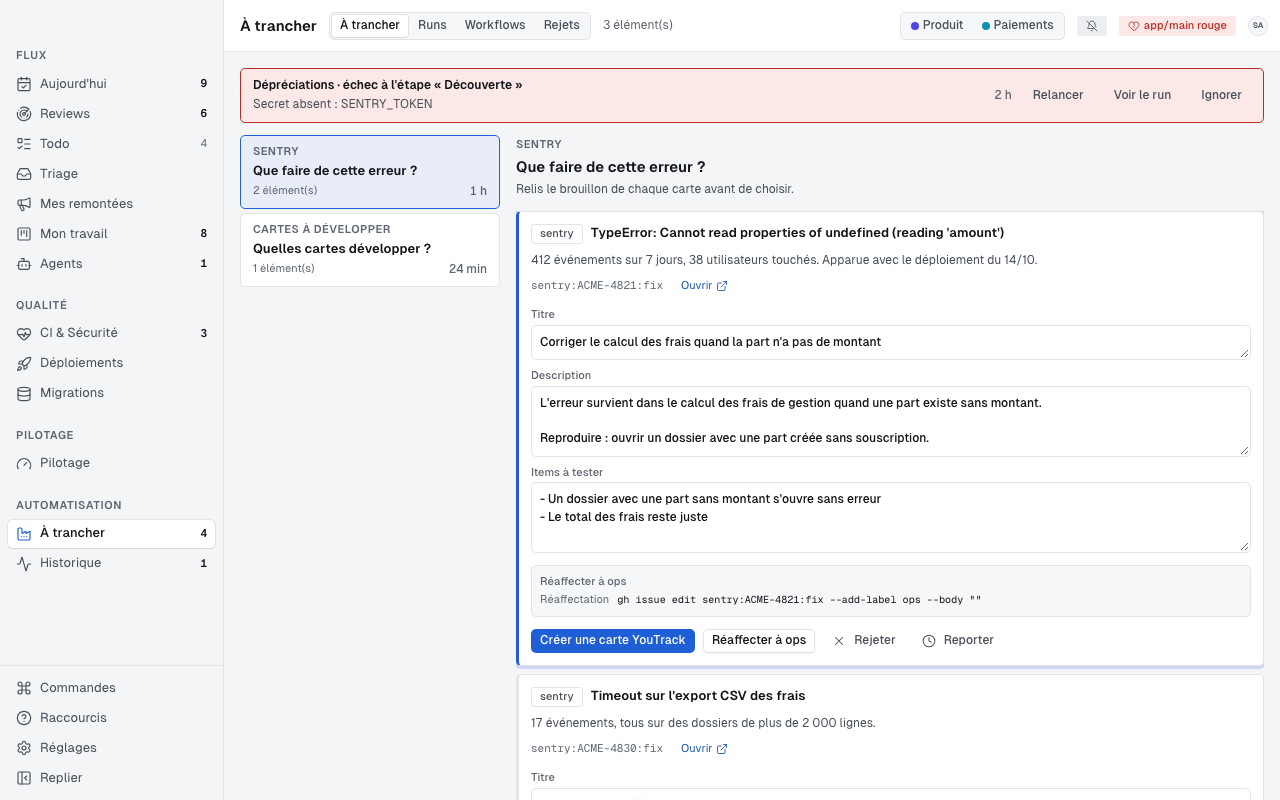
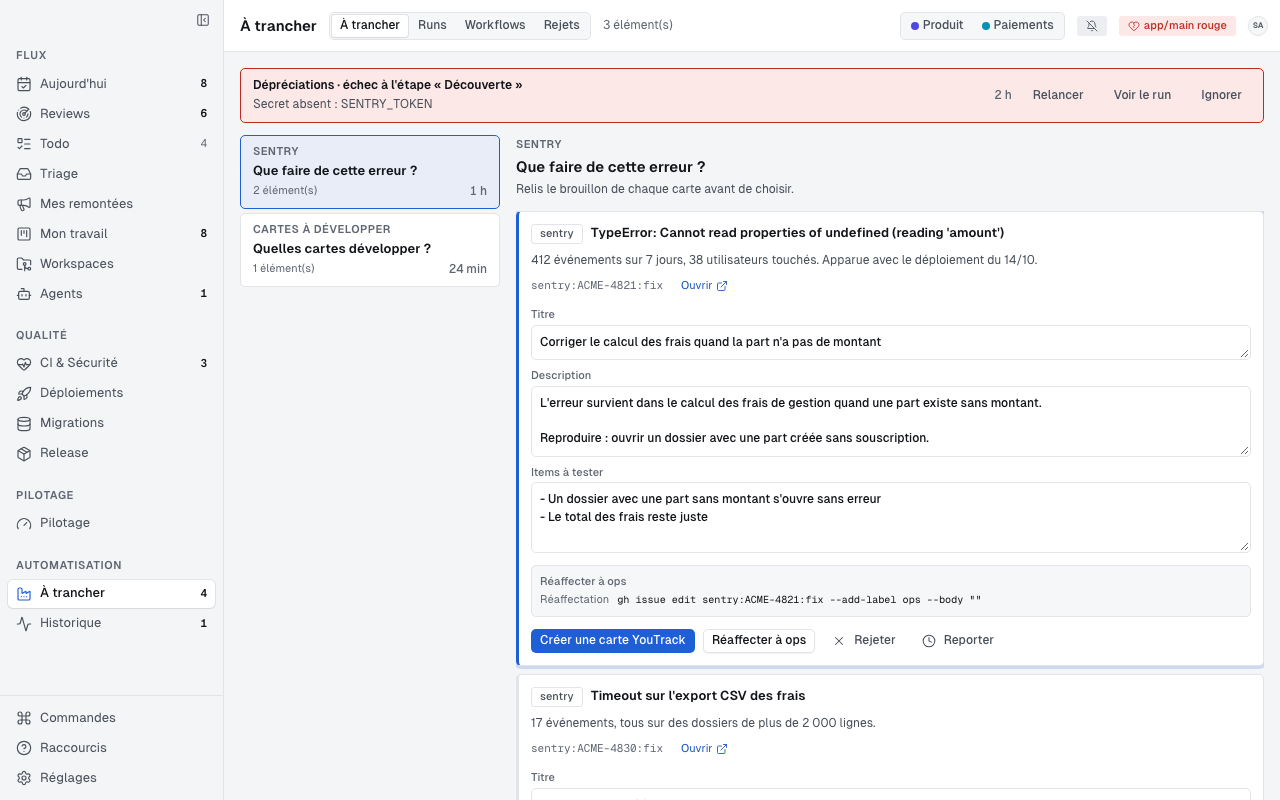
Show the whole cockpit, hidden views and sources included
The README stopped at the views of the sidebar as they stood a fortnight
ago. Workspaces and Release had arrived since and were missing, Ménage,
Notes and Absence had never been shown at all, and nothing said what
feeds the app.

Four sections join the four groups: the three views the palette opens,
then the accounts and the notification windows. Every shot is retaken
from the demo fixtures by a spec that lives with the code, so the next
drift is one command away.

The install line named the repository by its former owner. It works by
redirect, but the source README has said parallel-services for a while.

Changed region(s): [[0.0, 0.3125, 0.0938, 0.7812], [0.0, 0.8438, 0.0938, 0.9062], [0.0312, 0.9688, 0.0625, 1.0]]

diff --git a/README.md b/README.md
@@ -11,32 +11,37 @@ au dépôt de code.
 
 Chacun s'allume ou s'éteint dans **Réglages › Modules** : ce qui est éteint quitte la barre, les
 raccourcis et les notifications. La barre de gauche les range en quatre groupes — Flux, Qualité,
-Pilotage, Automatisation. Les captures viennent du jeu de démonstration, pas d'un vrai compte.
+Pilotage, Automatisation — et trois vues vivent hors de la barre, ouvertes par la palette. Les
+captures viennent du jeu de démonstration, pas d'un vrai compte.
 
 ## Flux
 
 ### Aujourd'hui
-Ce qui t'attend dans les autres vues actives, en un coup d'œil.
+Ce qui t'attend dans les autres vues actives, en un coup d'œil : agents, sorties à trancher,
+ménage, mentions, reviews, PR et cartes en cours. Chaque bloc se masque ou se déplace, et un bloc
+masqué ne compte nulle part.
 
 ![Aujourd'hui](docs/screenshots/aujourdhui.png)
 
 ### Reviews
 Tout ce qui attend ta review, avec le compteur de la barre de menus. j et k circulent, Entrée ouvre.
+Ce qui bouge sans qu'on te l'ait demandé devient un signal, rangé derrière son bouton.
 
 ![Reviews](docs/screenshots/reviews.png)
 
 ### Todo
-Les cartes à prendre dans le sprint courant de tes boards.
+Les cartes à prendre dans le sprint courant de tes boards, avec les workflows qui démarrent le
+travail : Conductor, terminal, ou un départ en hotfix depuis une version de prod.
 
 ![Todo](docs/screenshots/todo.png)
 
 ### Triage
-Les bugs remontés dans Notion, triés et transformés en cartes YouTrack.
+Les bugs remontés dans Notion et les erreurs Sentry, triés et transformés en cartes YouTrack.
 
 ![Triage](docs/screenshots/triage.png)
 
 ### Mes remontées
-Les bugs que tu as remontés dans Notion, et ce qu'ils deviennent.
+Les bugs que tu as remontés dans Notion, et ce qu'ils deviennent : ce qui attend ta réponse d'abord.
 
 ![Mes remontées](docs/screenshots/mes-remontees.png)
 
@@ -44,6 +49,12 @@ Les bugs que tu as remontés dans Notion, et ce qu'ils deviennent.
 Tes cartes en cours avec leur parcours, puis tes PR sans carte : branche, CI, reviews et conflits.
 
 ![Mon travail](docs/screenshots/mon-travail.png)
+
+### Workspaces
+Un worktree git par sujet, où Claude Code travaille : créer, suivre, relire le diff, commiter et
+pousser. ⇧Entrée ouvre une session, ⌘⇧N crée un workspace.
+
+![Workspaces](docs/screenshots/workspaces.png)
 
 ### Agents
 Tes sessions Claude Code ; celles qui attendent une réponse passent devant.
@@ -69,6 +80,12 @@ Les PR ouvertes qui touchent une migration : qui doit la relire, depuis combien 
 et le SQL qu'elle joue.
 
 ![Migrations](docs/screenshots/migrations.png)
+
+### Release
+Préparer une version : le tag suivant, le commit cible, les traductions en attente, les migrations
+à relire et le changelog que les cartes ont écrit. Rien n'est publié depuis ici sans confirmation.
+
+![Release](docs/screenshots/release.png)
 
 ## Pilotage
 
@@ -103,6 +120,44 @@ Les enchaînements, actions, runs Factory et appels MCP passés, étape par éta
 
 ![Historique](docs/screenshots/historique.png)
 
+## Hors de la barre
+
+Trois vues que la palette (⌘K) ouvre, et qui se signalent d'elles-mêmes quand elles ont quelque
+chose à dire.
+
+### Ménage
+Les branches fusionnées, worktrees, images et volumes à ranger, avec la place qu'ils reprennent.
+Rien n'est supprimé sans aperçu ni confirmation. Il se rappelle à toi dans Aujourd'hui et par sa
+notification hebdomadaire.
+
+![Ménage](docs/screenshots/menage.png)
+
+### Notes
+La capture rapide : une note en deux secondes avec ⌘⇧Espace depuis n'importe où, triée ici et
+convertie en carte quand elle le mérite.
+
+![Notes](docs/screenshots/notes.png)
+
+### Absence
+Ce qu'il faut régler avant de partir : reviews à rendre, cartes en cours, passation à écrire. Les
+notifications se taisent et les reviews ne te sont plus adressées jusqu'au retour.
+
+![Absence](docs/screenshots/absence.png)
+
+## Ce qui alimente le cockpit
+
+### Les comptes
+GitHub, YouTrack, Notion, Sentry. Les jetons vivent dans le trousseau du système, jamais dans un
+fichier ; tout le réseau part du back Rust, et rien ne sort sans passer par le masquage.
+
+![Comptes](docs/screenshots/comptes.png)
+
+### Les notifications
+Ce qui te notifie, et quand : la section « Quand me déranger » met l'app en sourdine pendant tes
+réunions et garde les reviews pour les créneaux que tu as choisis.
+
+![Notifications](docs/screenshots/notifications.png)
+
 ## Composer son cockpit
 
 Les modules s'activent un par un, avec leurs dépendances et des profils tout faits.
@@ -111,15 +166,18 @@ Les modules s'activent un par un, avec leurs dépendances et des profils tout fa
 
 ## Visite guidée
 
-Au premier lancement, un pas à pas éclaire les zones de l'app une à une. Il se relance depuis la
-palette (⌘K) ou l'aide (?).
+Au premier lancement, un pas à pas éclaire les zones de l'app une à une : la barre des vues,
+l'en-tête, le filtre d'équipe, la palette, les raccourcis et Réglages › Modules. Il enchaîne sur
+un tour des modules, qui passe sur chaque vue — les trois hors de la barre comprises — puis sur
+chaque source. Les étapes d'un module éteint sont sautées. Les deux visites se relancent depuis la
+palette (⌘K) ou Réglages › À propos.
 
 ![Visite guidée](docs/screenshots/visite-guidee.png)
 
 ## Installer
 
 ```bash
-gh api repos/jeremie-vasco/dev-cockpit-dist/contents/install.sh --jq .content | base64 --decode | bash
+gh api repos/parallel-services/dev-cockpit-dist/contents/install.sh --jq .content | base64 --decode | bash
 ```
 
 `--beta` pour le canal beta, `--version vX.Y.Z` pour une version précise, `--deb` sous Linux pour
